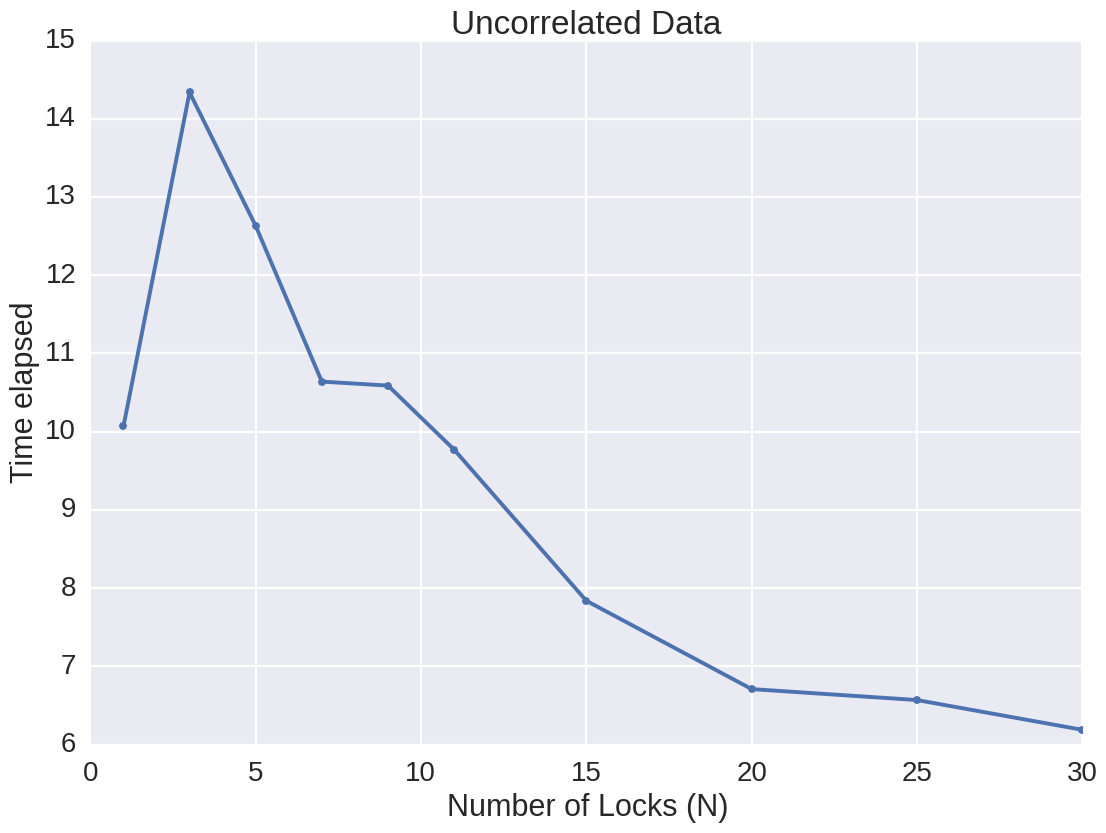
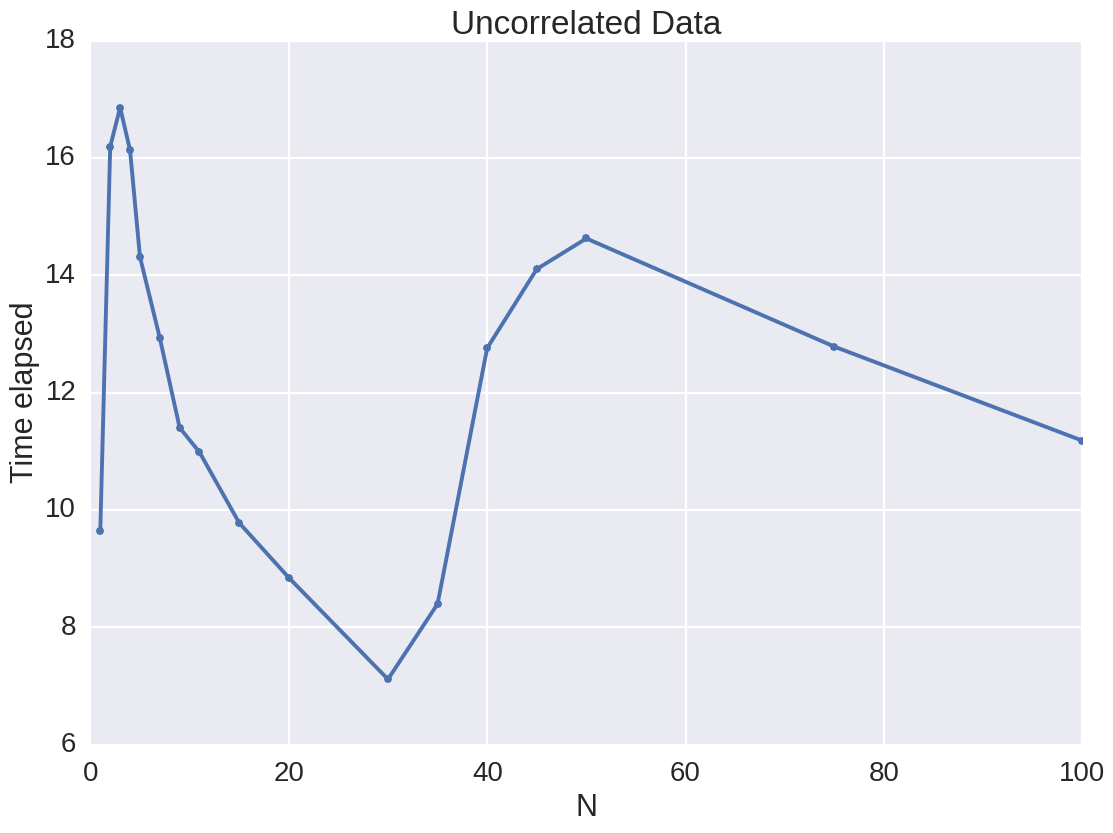
Code for P2 appears to be working, plots are in place too. I just have to add discussion.

diff --git a/HW2/P2/P2_make_medium_grained_plot.py b/HW2/P2/P2_make_medium_grained_plot.py
@@ -41,7 +41,7 @@ if __name__ == '__main__':
     # You should explore different values for the number of locks in the medium
     # grained locking
     ########################################
-    N_list = [1, 2, 3, 4, 5, 7, 9, 11, 15, 20, 30, 40, 50, 100]
+    N_list = [1, 2, 3, 4, 5, 7, 9, 11, 15, 20, 30, 35, 40, 45, 50, 75, 100]
     t_list = []
     for N in N_list:
         print N
